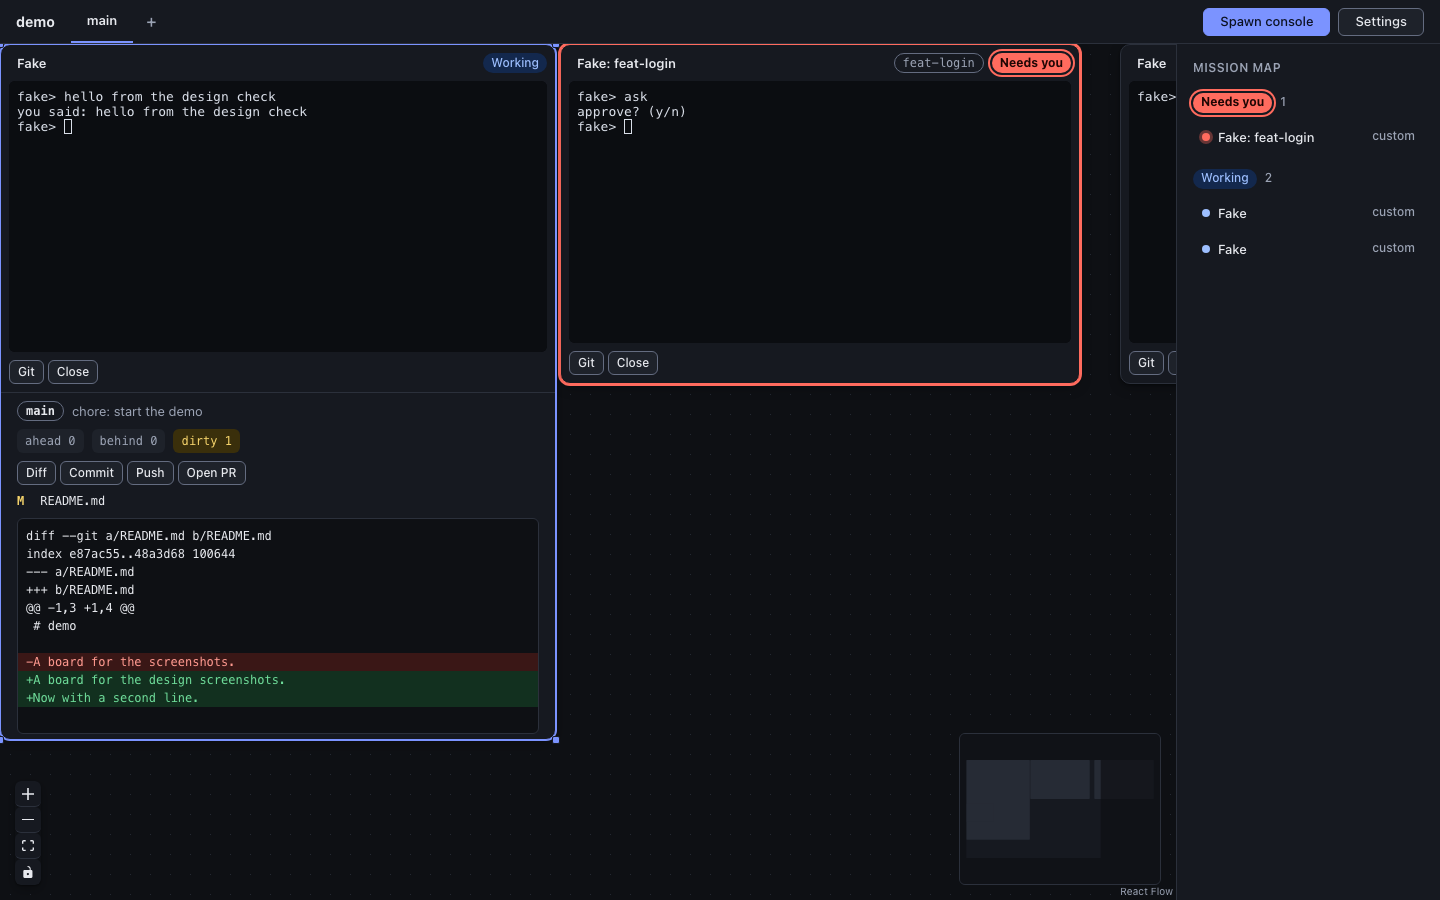
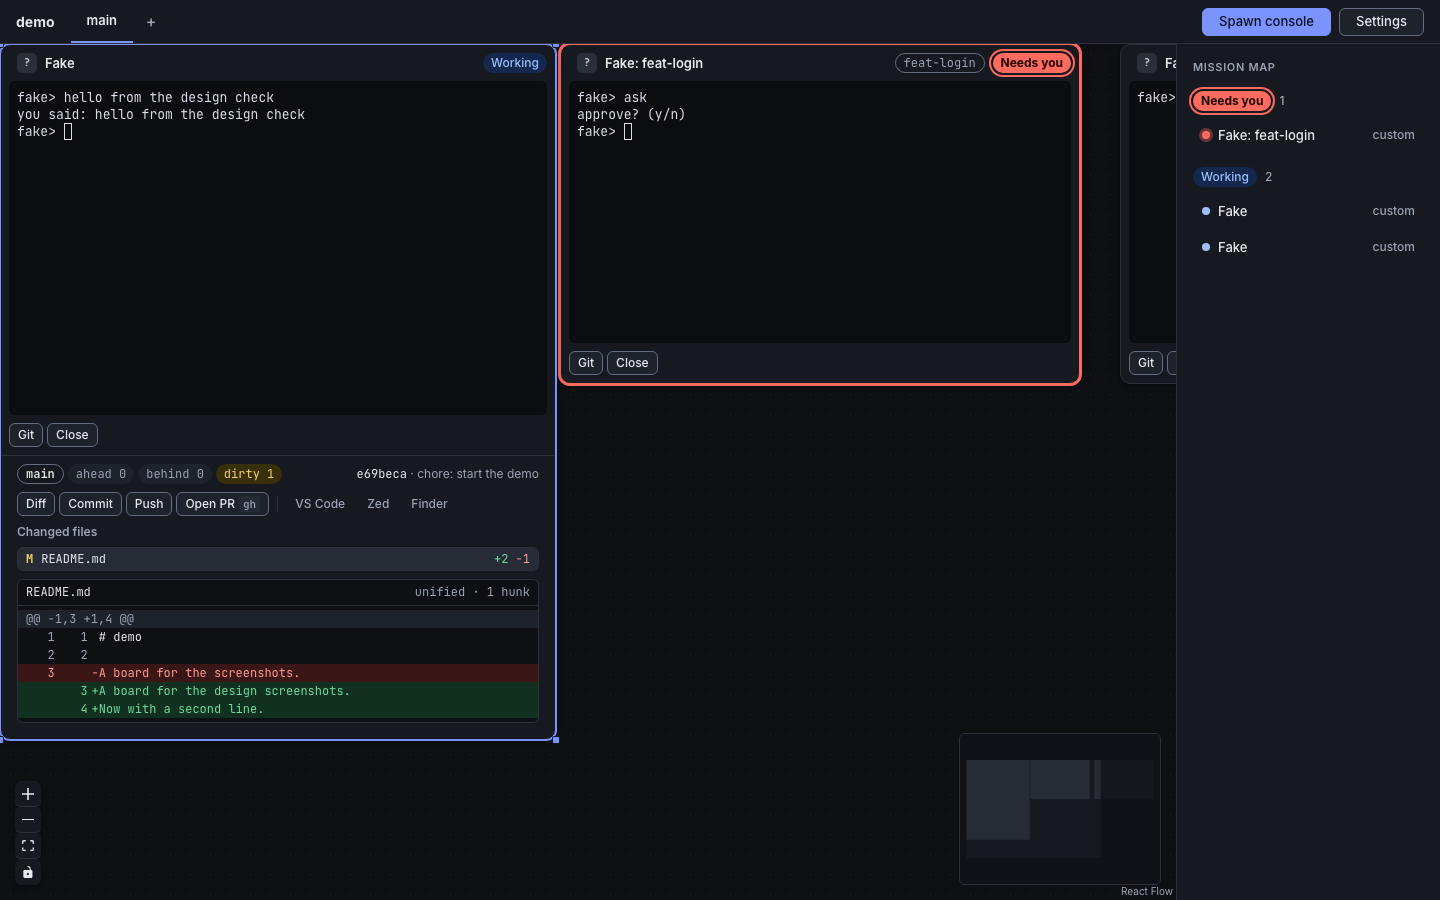
chore: retake the git card shot and note git.css in the design readme

diff --git a/packages/ui/src/styles/git.css b/packages/ui/src/styles/git.css
@@ -147,6 +147,7 @@
 
 .git-card .diff-files .field-label {
   padding-bottom: var(--space-half);
+  font-family: var(--font-sans);
 }
 
 .git-card .diff-file {

diff --git a/docs/design/README.md b/docs/design/README.md
@@ -5,6 +5,7 @@ The board's look lives in three sheets under `packages/ui/src/styles`, imported 
 - `tokens.css`: every colour, space, radius and font as a CSS variable. Dark is the default; `prefers-color-scheme: light` swaps the colours.
 - `base.css`: element defaults (in `:where()`, so any class wins), buttons (`.btn-primary`, `.btn-sm`, `.btn-icon`), inputs, focus rings, chips, field labels, the path field.
 - `app.css`: one section per component: app shell and top bar, overlays (spawn modal, settings drawer), React Flow on the tokens, status badge, console card, note, mission map, settings, git card and diff.
+- `git.css`: the git card and its diff view (head row, action row, changed files beside the unified diff), imported by `GitCard.tsx`; its rules sit under `.git-card` so they win over the older git section in `app.css`. It uses the existing tokens only.
 
 Components carry class names only; no colour or size is written inline. Roles, labels and accessible names are unchanged, so the tests and the e2e selectors still find everything.
 
